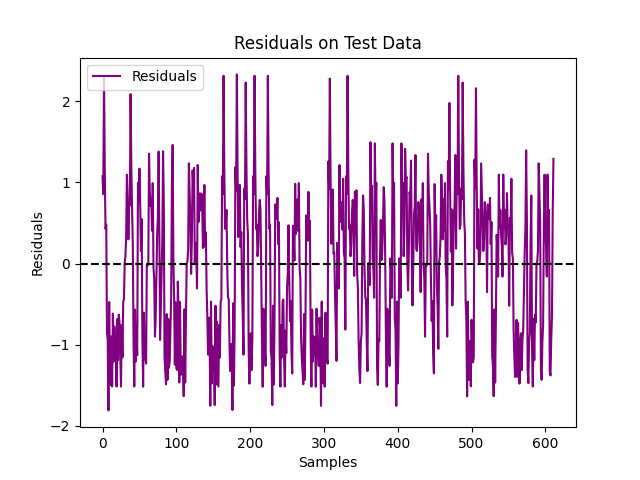
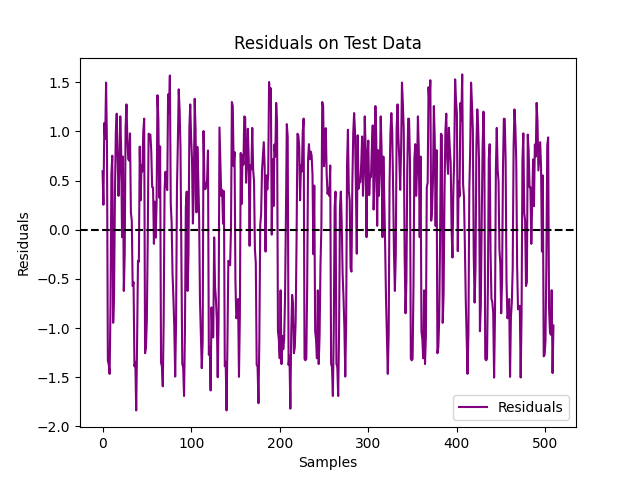
Fixed new dataset and forecasting

diff --git a/main_pipline/models_circuits_and_piplines/piplines/predict_pipeline.py b/main_pipline/models_circuits_and_piplines/piplines/predict_pipeline.py
@@ -131,11 +131,11 @@ def main():
     sample_index = random.sample(range(len(dataset['input_test'])), full_config['approx_samples'])
     for shots in n_shots:
         logger.info(f'Evaluating Sample with {shots} shots')
-        evaluate_sample_with_shot(model, dataset, sample_index, full_config, logger, title=shots, custome_shots=shots)
+        #evaluate_sample_with_shot(model, dataset, sample_index, full_config, logger, title=shots, custome_shots=shots)
     for shots in n_shots:
         logger.info(f'Evaluating Forecast with {shots} shots')
         shots_start = time.time()
-        iterative_shot_forecast(function, model, dataset, full_config, logger=logger, title=shots, custome_shots=shots)
+        iterative_shot_forecast(model, dataset, full_config, logger=logger, title=shots, custome_shots=shots)
         logger.info(f"Shot_Forecast with {shots} took {time.time() - shots_start}")
 
 
